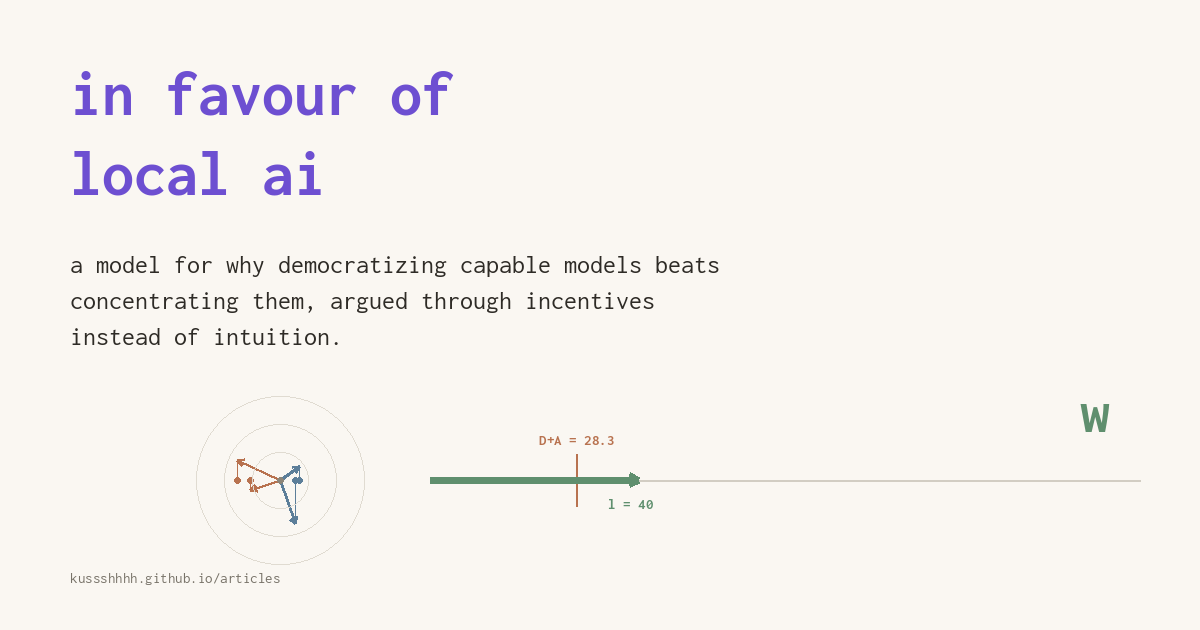
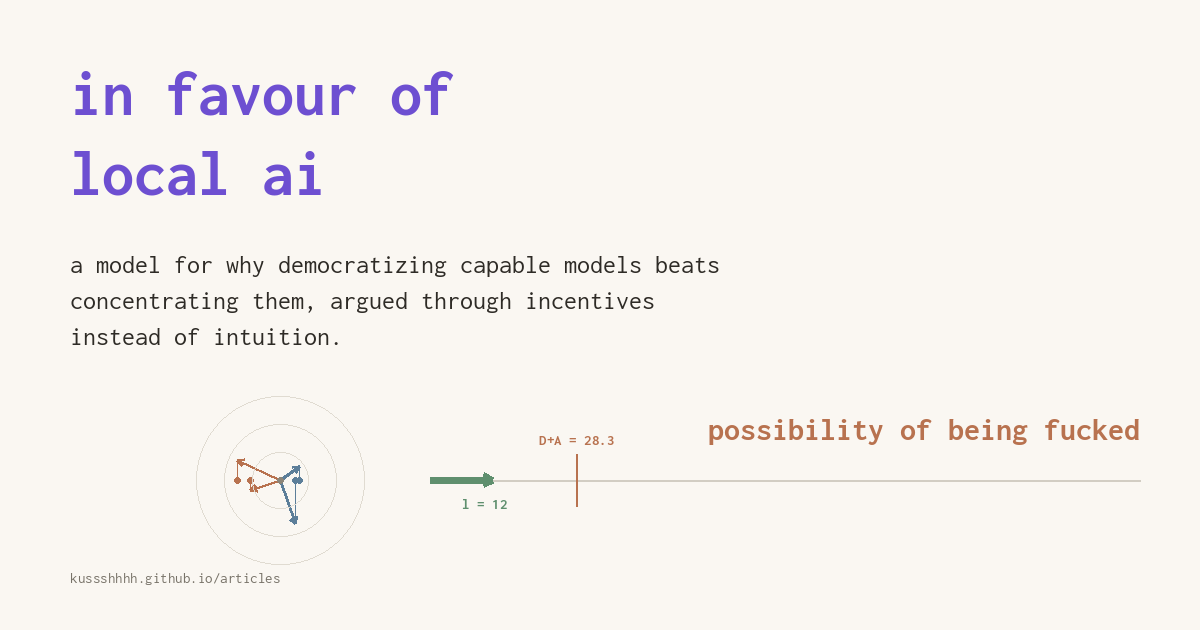
Bigger losing tag; OG preview shows the losing state, not the win
The "possibility of being fucked" text was too small on the live
diagram, bumped to 18px. The link-preview card now shows that state
(l short of D+A) instead of the win state — punchier for a preview.

Changed region(s): [[0.5858, 0.6333, 0.9558, 0.7238], [0.4008, 0.754, 0.555, 0.8143]]

diff --git a/articles/diagram.js b/articles/diagram.js
@@ -304,7 +304,7 @@
         if (winTag) {
             winTag.textContent = win ? 'w' : 'possibility of being fucked';
             winTag.setAttribute('fill', win ? 'var(--diag-you)' : 'var(--diag-neg)');
-            winTag.setAttribute('font-size', win ? 30 : 13);
+            winTag.setAttribute('font-size', win ? 30 : 18);
             winTag.classList.toggle('diagram-pulse', win);
         }
 

diff --git a/scripts/gen_og_image.py b/scripts/gen_og_image.py
@@ -71,12 +71,15 @@ label = f"D+A = {THRESHOLD:.1f}"
 tw = d.textlength(label, font=smallbold)
 d.text((tick_x - tw / 2, RORIGIN[1] - 48), label, font=smallbold, fill=DIAG_NEG)
 
-l_val = 40.0
+l_val = 12.0
 lx = RORIGIN[0] + l_val * 5.2
 draw_arrow(d, RORIGIN[0], RORIGIN[1], lx, RORIGIN[1], DIAG_YOU, width=7, head=10)
 d.text((lx - 30, RORIGIN[1] + 16), f"l = {l_val:.0f}", font=smallbold, fill=DIAG_YOU)
 
-d.text((RAXIS_END_X - 60, RORIGIN[1] - 100), "w", font=bigw, fill=DIAG_YOU)
+tag = "possibility of being fucked"
+tagfont = ImageFont.truetype(f"{FONT_DIR}/Inconsolata-Bold.ttf", 32)
+tw = d.textlength(tag, font=tagfont)
+d.text((RAXIS_END_X - tw, RORIGIN[1] - 68), tag, font=tagfont, fill=DIAG_NEG)
 
 # footer
 d.text((70, 570), "kussshhhh.github.io/articles", font=small, fill=(120, 115, 105))
